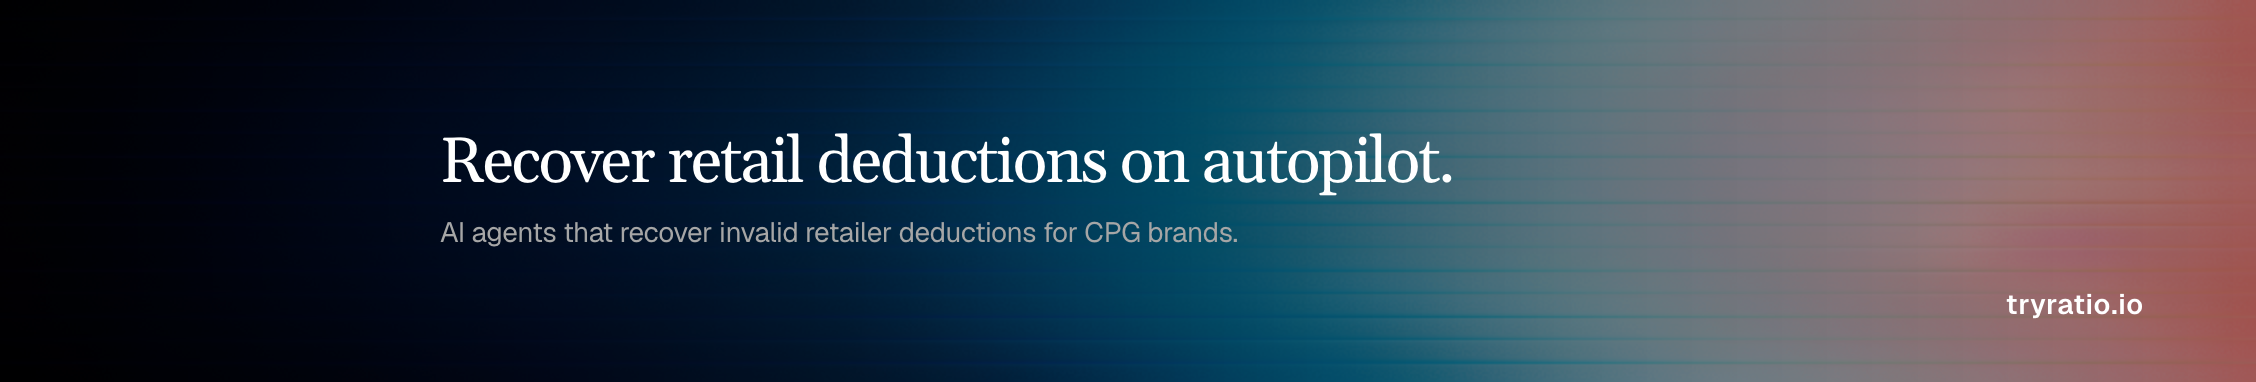
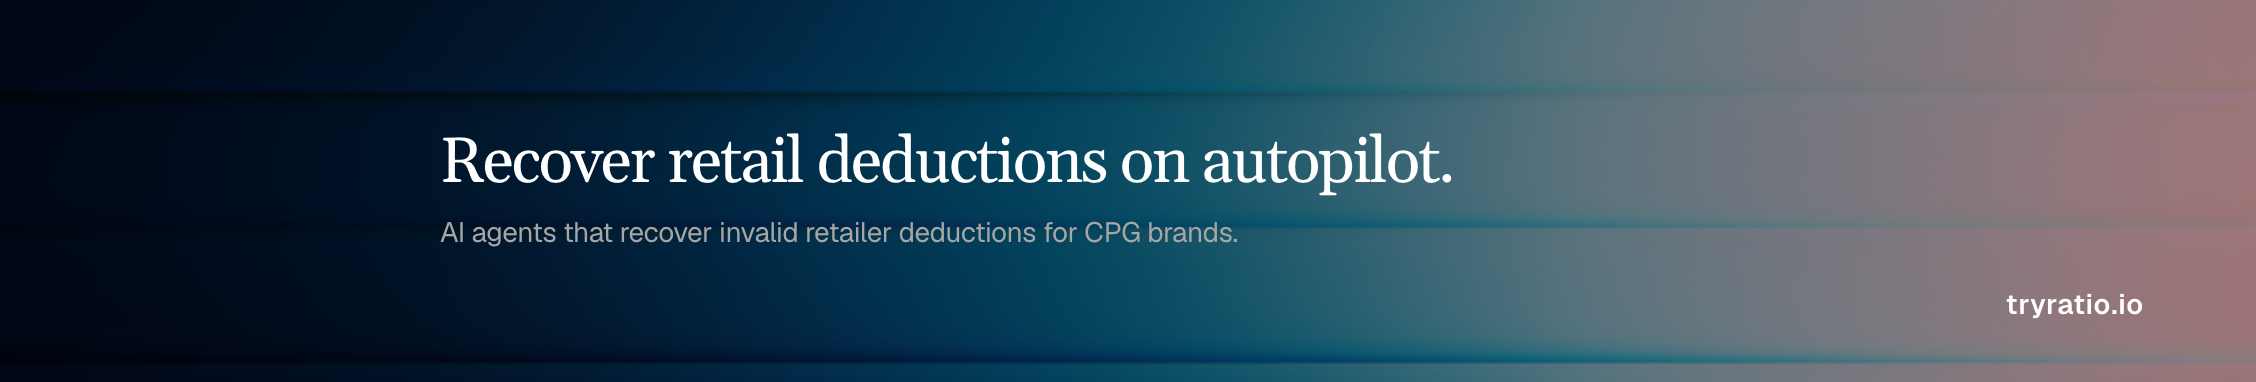
LinkedIn company cover: use frozen hero-shader frame
The live UnicornShader was compressing too flat at the 1128x191
company-cover aspect ratio, hiding the soft horizontal banding visible
on the taller employee cover. Switching to /public/linkedin/shader-bg.png
(the same source used by the DP) gives all three LinkedIn assets a
consistent texture.

diff --git a/app/linkedin-cover/page.tsx b/app/linkedin-cover/page.tsx
@@ -1,22 +1,24 @@
-"use client";
-
-import { UnicornShader } from "@/components/hero/unicorn-shader";
 import styles from "./linkedin-cover.module.css";
 
 /**
  * /linkedin-cover — preview of the 1128x191 LinkedIn company-cover PNG.
  * Screenshot the .card element at exact pixel size to produce the asset.
- * Same shader as the landing hero, left-aligned text over a dark scrim
- * so the headline reads cleanly. Positions the brand for retail deduction
- * recovery (CPG).
+ *
+ * Uses the same frozen-shader PNG as the DP and employee-cover so all
+ * three assets share an identical texture. The live UnicornShader was
+ * compressed too flat at this cover's 5.9:1 aspect ratio — the soft
+ * horizontal banding visible on the taller employee cover disappeared.
+ * Switching to the static image lets the bands read at any aspect.
  */
+export const metadata = {
+  title: "Ratio · LinkedIn cover preview",
+};
+
 export default function LinkedinCoverPage() {
   return (
     <main className={styles.wrap}>
       <div className={styles.card}>
-        <div className={styles.shaderLayer} aria-hidden="true">
-          <UnicornShader project="hNoUYN2AHKFq4LxKJyNV" />
-        </div>
+        <div className={styles.shaderLayer} aria-hidden="true" />
         <div className={styles.scrim} aria-hidden="true" />
 
         <div className={styles.content}>

diff --git a/app/linkedin-cover/linkedin-cover.module.css b/app/linkedin-cover/linkedin-cover.module.css
@@ -20,12 +20,21 @@
   box-sizing: border-box;
 }
 
+/* Background = frozen frame of the hero UnicornShader, baked to
+   /public/linkedin/shader-bg.png. Same source image as the DP and the
+   employee cover so all three LinkedIn assets share the same soft
+   horizontal-banding texture. background-size: cover crops the square
+   image to fill this cover's 5.9:1 aspect — the centred horizontal
+   slice keeps the bands visible. */
 .shaderLayer {
   position: absolute;
   inset: 0;
   z-index: 0;
   pointer-events: none;
   overflow: hidden;
+  background-image: url("/linkedin/shader-bg.png");
+  background-size: cover;
+  background-position: center;
 }
 
 /* Dark gradient overlay — heavier on the left where the headline sits,